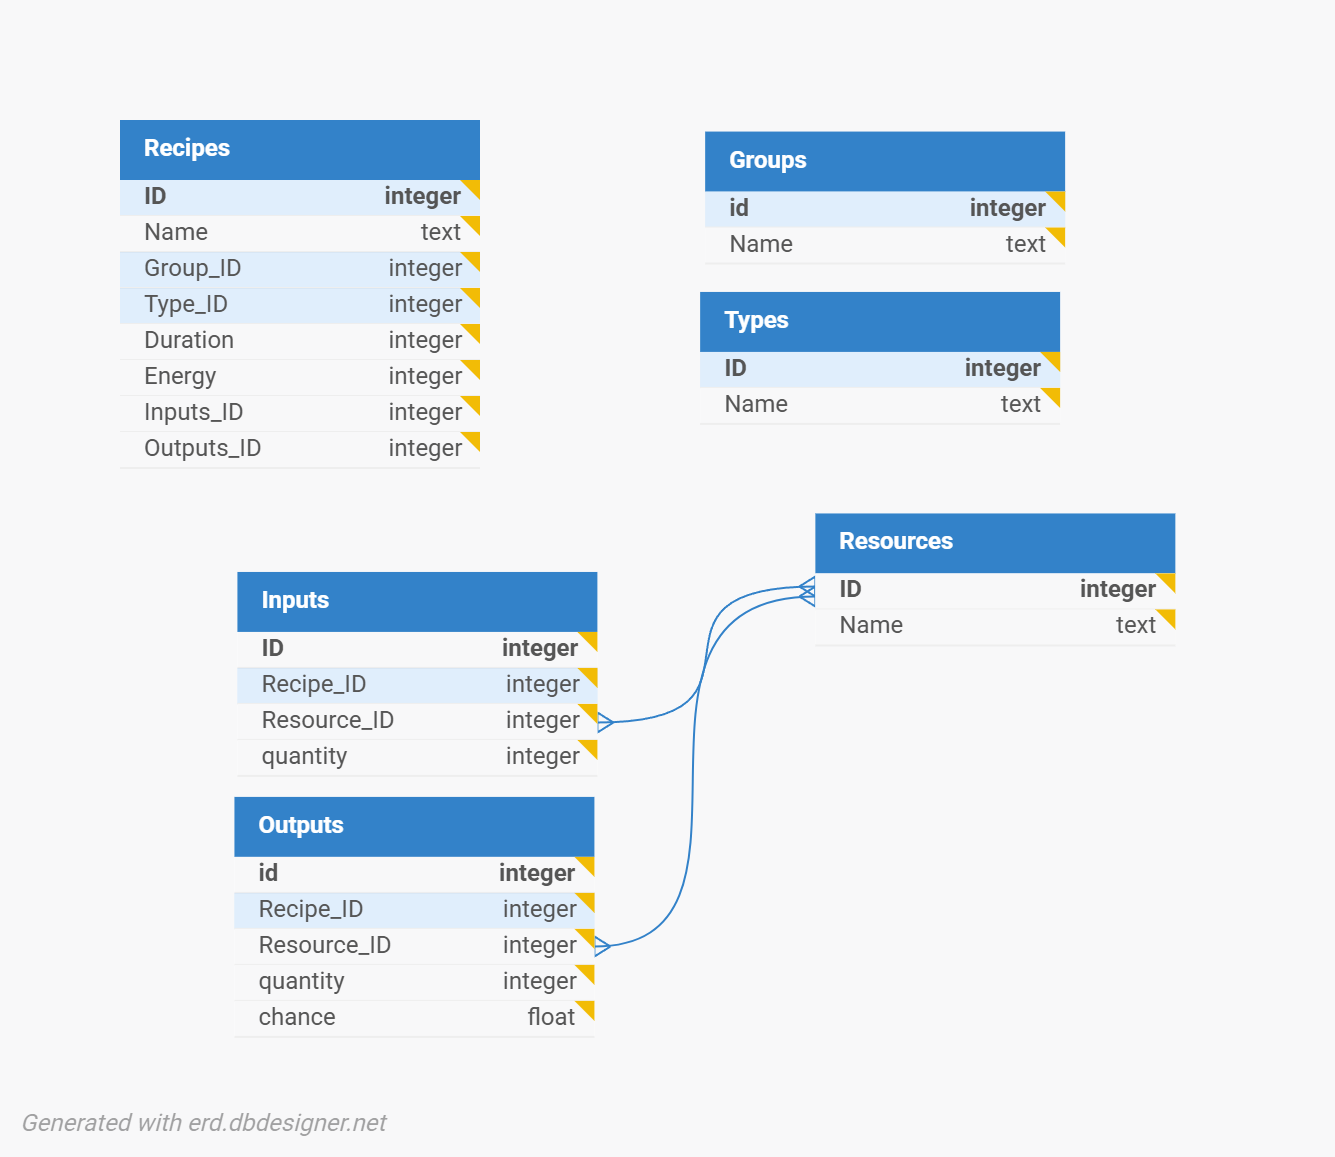
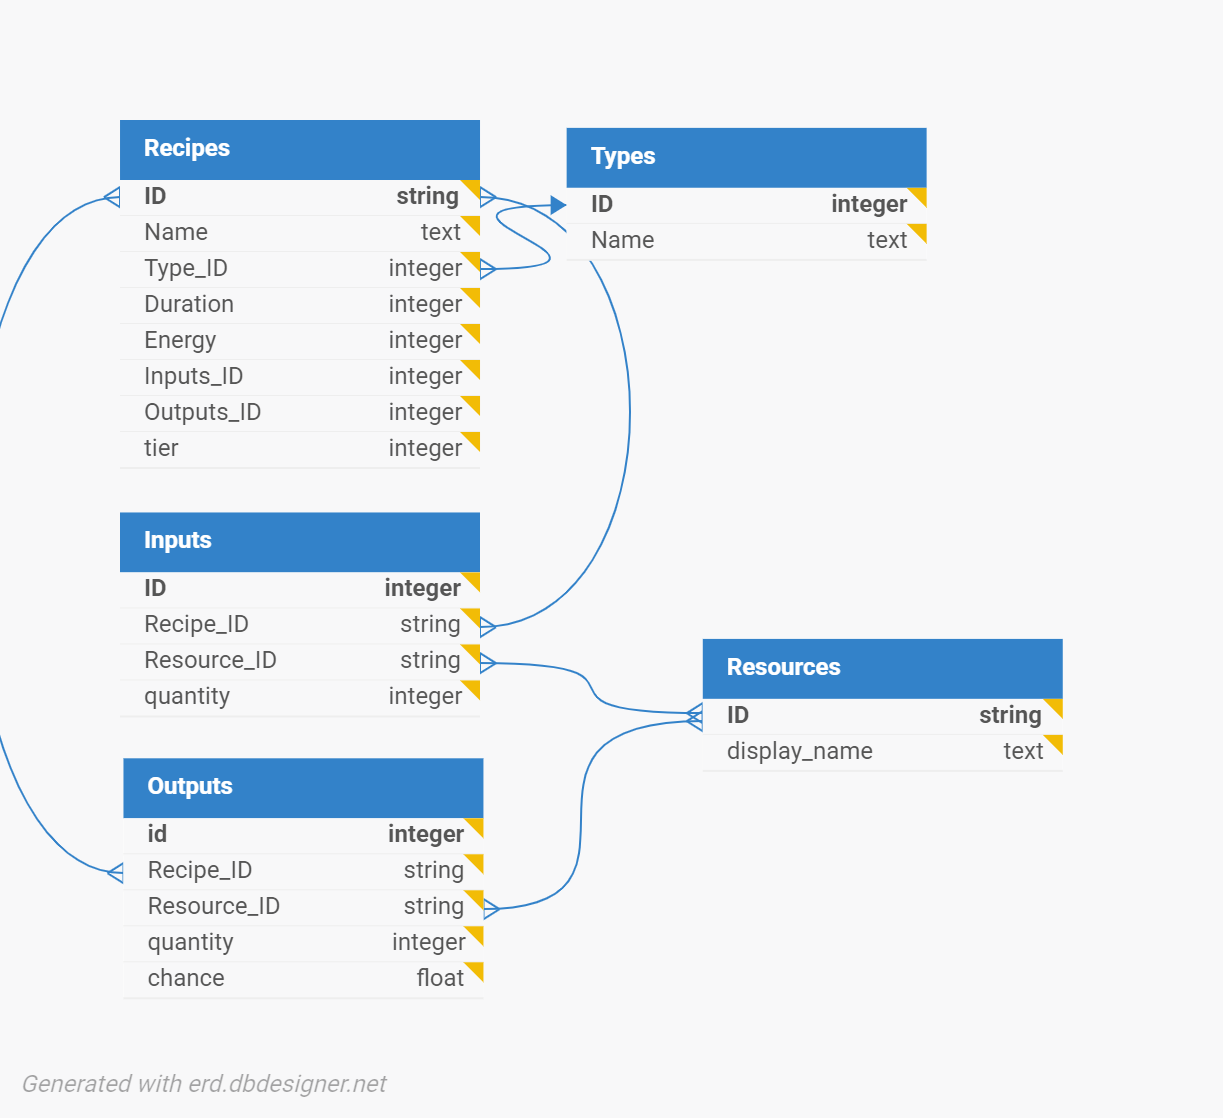
Создан каркас формы для создания рецепта. Добавлен метод API для добавления рецепта одним запросом.

diff --git a/frontend_react/src/RecipeForm.tsx b/frontend_react/src/RecipeForm.tsx
@@ -1,5 +1,7 @@
 import { useState } from "react"
 
+const API_URL = "http://localhost:8000/api"
+
 type RecipeInputItem = {
     name: string,
     quantity: number
@@ -14,13 +16,12 @@ type RecipeOutputItem = {
 function RecipeForm(){
 
     const [recipeName, setRecipeName] = useState('');
-    const [recipeGroup, setRecipeGroup] = useState('');
     const [recipeType, setRecipeType] = useState('')
     const [recipeDuration, setRecipeDuration] = useState(0)
     const [recipeTier, setRecipeTier] = useState(1)
     const [recipeEnergy, setRecipeEnergy] = useState(0)
-    const [recipeInputs, setRecipeInputs] = useState<RecipeInputItem[]>(() => { const a:RecipeInputItem = {name: "", quantity: 0}; return [a];});
-    const [recipeOutputs, setRecipeOutputs] = useState<RecipeOutputItem[]>(() => {const a:RecipeOutputItem = {name: "", quantity: 0, chance: 100}; return [a]});
+    const [recipeInputs, setRecipeInputs] = useState<RecipeInputItem[]>([]);
+    const [recipeOutputs, setRecipeOutputs] = useState<RecipeOutputItem[]>([]);
 
     function changeRecipeInput(index: number, newName: string, newQuantity: number){
         const newRecipeInputs = [...recipeInputs];
@@ -54,8 +55,40 @@ function RecipeForm(){
         setRecipeOutputs(recipeOutputs.filter((item, i) => i !== index))
     }
 
-    function clearForm(){
+    async function addRecipe(){
 
+
+        const data = {
+            "recipeName": recipeName,
+            "recipeType": recipeType,
+            "recipeDuration": recipeDuration,
+            "recipeTier": recipeTier,
+            "recipeEnergy": recipeEnergy,
+            "recipeInputs": recipeInputs.map((item, index) => {
+                return {"resourceName": item.name, "quantity": item.quantity}
+            }),
+            "recipeOutputs": recipeOutputs.map( item => { return {"resourceName": item.name, "quantity": item.quantity, "chance": item.chance}})
+        }
+
+        fetch(API_URL + "/add-recipe-v2", {
+            method: "POST",
+            headers: {
+                "accept": "application/json",
+                "Content-Type": "application/json"
+            },
+            body: JSON.stringify(data)
+        }).then(responce => responce.json()).then(data => console.log(data))
+
+    }
+
+    function clearForm(){
+        setRecipeName("");
+        setRecipeType("");
+        setRecipeDuration(0)
+        setRecipeTier(1)
+        setRecipeEnergy(0)
+        setRecipeInputs([])
+        setRecipeOutputs([])
     }
 
     return (
@@ -63,10 +96,6 @@ function RecipeForm(){
                 <div className="form-item">
                     <label>Название рецепта</label>
                     <input value={recipeName} onChange={e => {setRecipeName(e.target.value);}}/>
-                </div>
-                <div className="form-item">
-                    <label>Группа</label>
-                    <input value={recipeGroup} onChange={e => {setRecipeGroup(e.target.value)}}/>
                 </div>
                 <div className="form-item">
                     <label>Вид крафта</label>
@@ -136,7 +165,7 @@ function RecipeForm(){
                 </div>
                 <div className="buttons">
                     <button onClick={() => clearForm()}>Очистить форму</button>
-                    <button>Добавить рецепт</button>
+                    <button onClick={() => addRecipe()}>Добавить рецепт</button>
                 </div>
         </div>
     )

diff --git a/backend/backend.py b/backend/backend.py
@@ -13,6 +13,7 @@ solver = Solver()
 origins = [
     "http://localhost",
     "http://localhost:8080",
+    "http://localhost:3000"
 ]
 
 app.add_middleware(
@@ -81,3 +82,26 @@ async def add_recipe_outputs(data: RecipeOutputs):
 @app.get("/api/solver/solve")
 async def solver_solve():
     solver.solve()
+
+@app.post("/api/add-recipe-v2")
+async def add_recipe_v2(data: RecipeV2):
+    print("Add recipe v2")
+
+    recipeTypeID = db.addType(Type(typeName=data.type_name))
+
+
+    recipeID = db.addRecipe(Recipe(
+        recipeName=data.name,
+        recipeGroupID=recipeTypeID,
+        recipeTypeID=recipeTypeID,
+        recipeDuration=data.duration,
+        recipeTier=data.tier,
+        recipeEnergy=data.energy
+    ))
+
+    db.addRecipeInputs(recipeID, data.inputs)
+    db.addRecipeOutputs(recipeID, data.outputs)
+
+    print("recipe v2 added")
+
+    

diff --git a/backend/dtypes.py b/backend/dtypes.py
@@ -56,3 +56,13 @@ class Recipe(BaseModel):
     duration: int = Field(alias="recipeDuration")
     tier: int = Field(alias="recipeTier")
     energy: int = Field(alias="recipeEnergy")
+
+class RecipeV2(BaseModel):
+    id: UUID6 = Field(default=uuid6(), alias="recipeID")
+    name: str = Field(alias="recipeName")
+    type_name: str = Field(alias="recipeType")
+    duration: int = Field(alias="recipeDuration")
+    tier: int = Field(alias="recipeTier")
+    energy: int = Field(alias="recipeEnergy")
+    inputs: list[RecipeInputIngredient] = Field(alias="recipeInputs")
+    outputs: list[RecipeOutputIngredient] = Field(alias="recipeOutputs")
